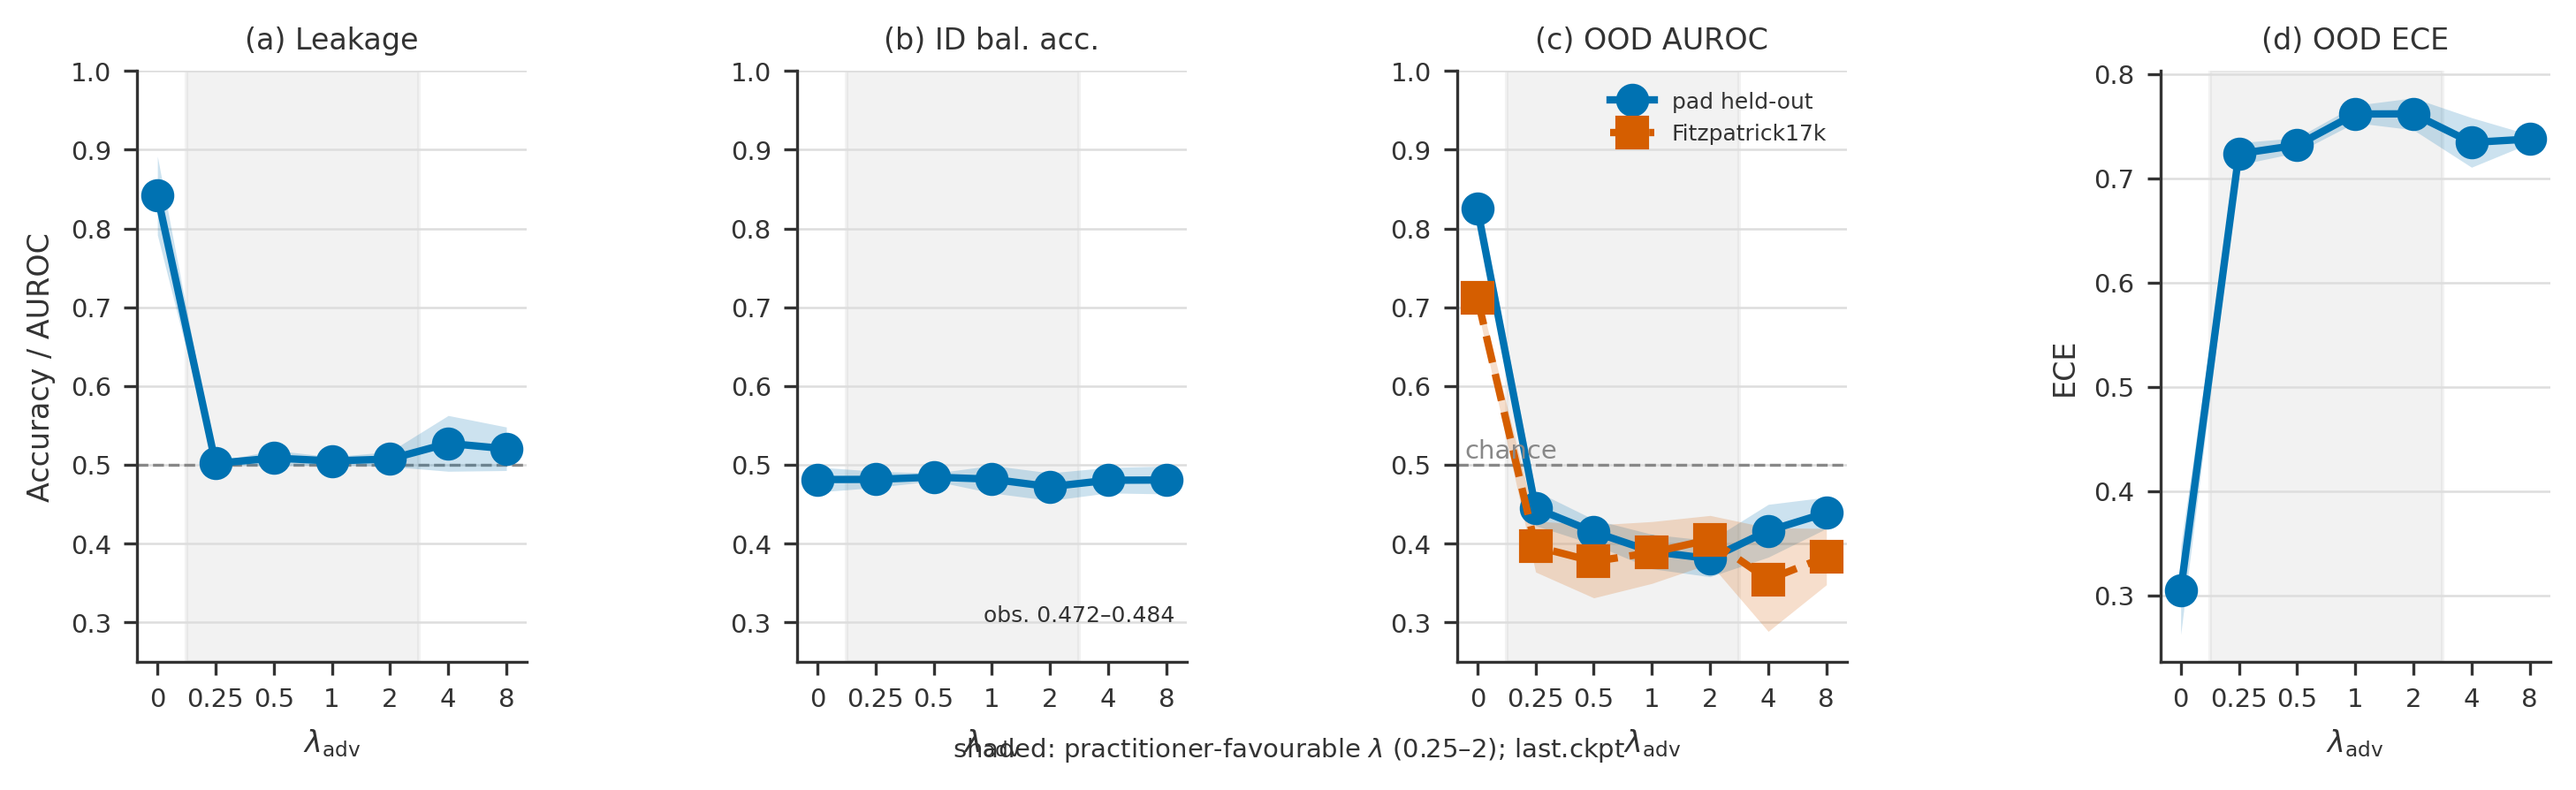
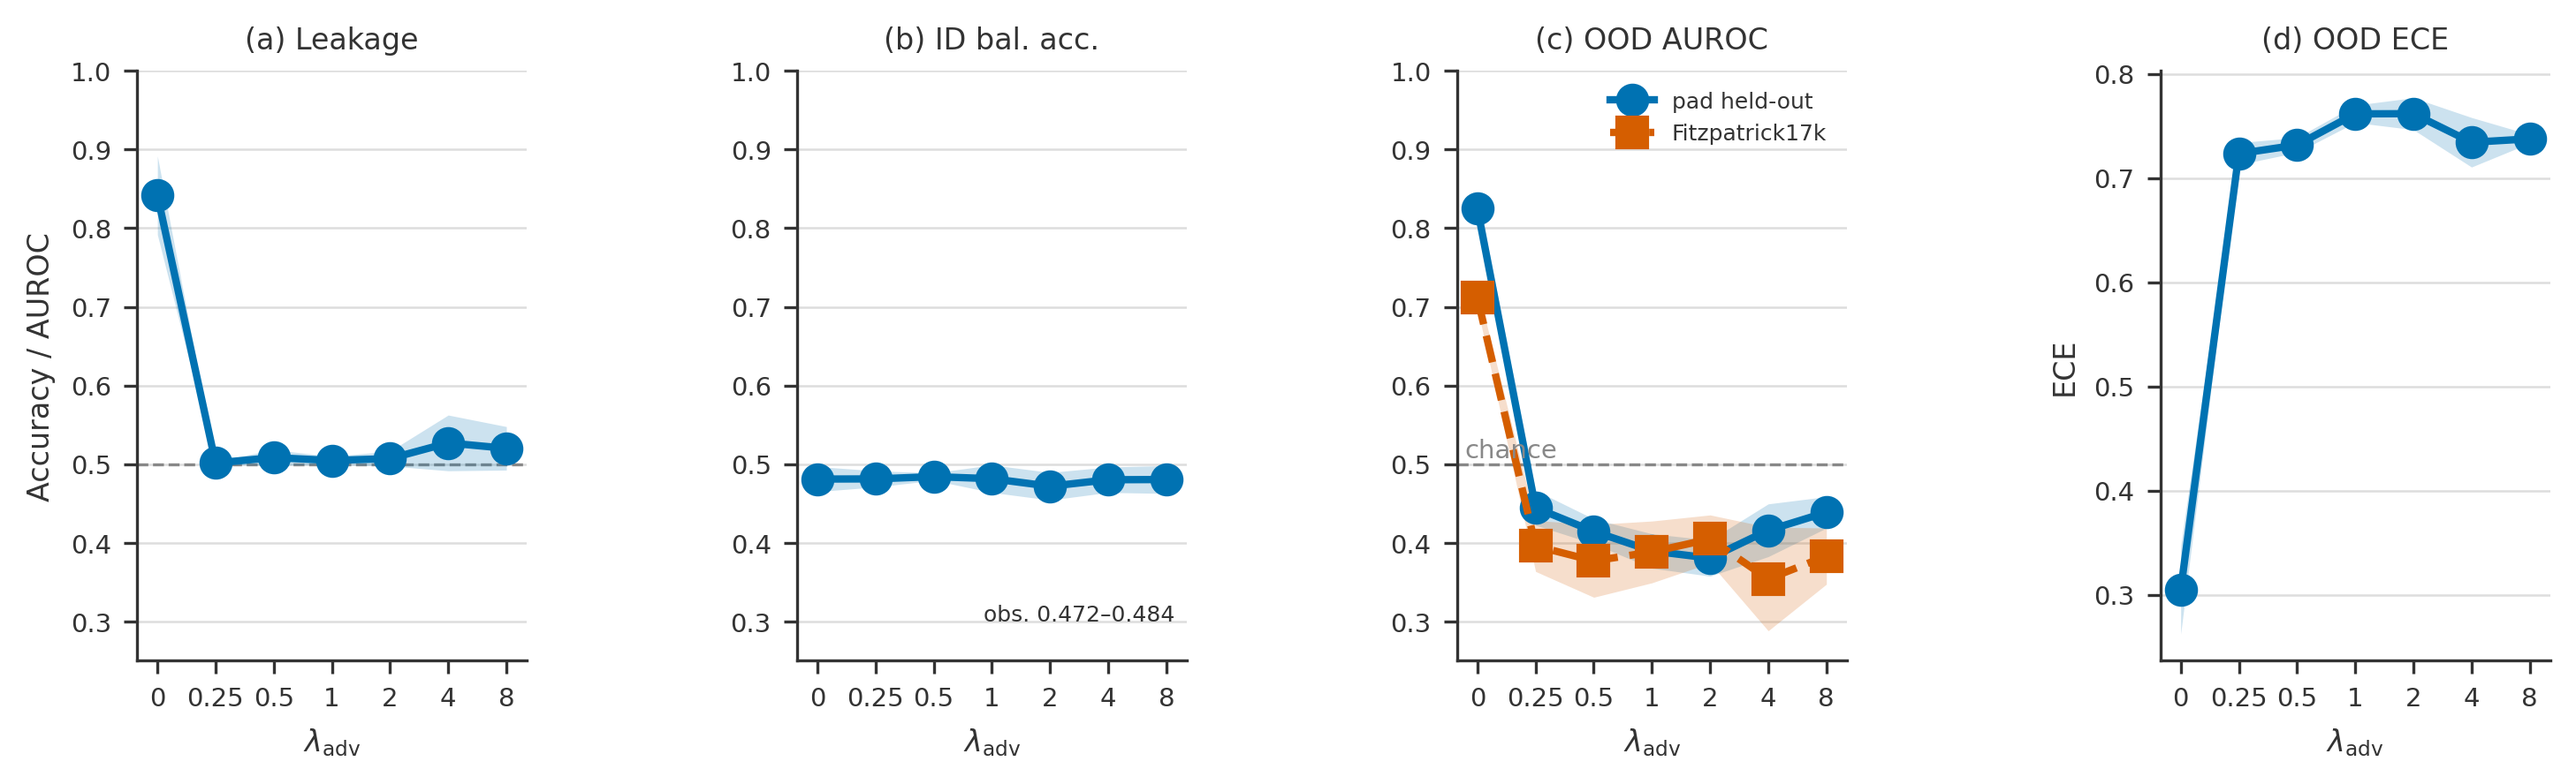
Paper B: Fig 1 layout — drop grey λ band and bottom note.
Keep t1last values and obs. 0.472–0.484; shading/note overlapped x-axis labels and are unused by the caption.

diff --git a/scripts/plot_manuscript_figures.py b/scripts/plot_manuscript_figures.py
@@ -66,43 +66,90 @@ def intervention_band_x(lams=pfs.LAMS):
     return i0 - 0.5, i1 + 0.5
 
 
+def load_t1last_by_lambda(checkpoint="last"):
+    """Table 1 dual-encoder runs at last.ckpt (results/paperB/r5/t1last/summary.csv)."""
+    import csv
+
+    by = defaultdict(list)
+    with open(PAPERB / "r5" / "t1last" / "summary.csv", newline="") as f:
+        for r in csv.DictReader(f):
+            if r["checkpoint"] != checkpoint:
+                continue
+            by[float(r["lambda"])].append(r)
+    return by
+
+
+def load_t1last_ood_ece_by_lambda():
+    """OOD ECE (pad_heldout) from t1last UNSEEN_ECE.json, keyed by λ."""
+    rows = json.loads((PAPERB / "r5" / "t1last" / "UNSEEN_ECE.json").read_text())["ece_by_lambda"]
+    return {float(r["lambda"]): r for r in rows}
+
+
 def fig1_intervention(shared_ylim=(0.4, 1.0)):
-    rows = load_phase3_summaries()
-    by = by_lambda_summaries(rows)
-    dual = json.loads((PAPERB / "phase16" / "table1_ood_pad_dual_column.json").read_text())["by_lambda"]
+    """Fig 1 from t1last last.ckpt (held-out leakage, ID bal, Maha pad+Fitz, OOD ECE)."""
+    by = load_t1last_by_lambda("last")
+    ece_by = load_t1last_ood_ece_by_lambda()
     lams = pfs.LAMS
     x = pfs.lam_xpos(lams)
 
+    def col_mean_std(lam, key):
+        rs = by.get(float(lam), [])
+        return mean_std([float(r[key]) for r in rs])
+
+    # Panel c Fitzpatrick means dip to ~0.354; widen shared floor so nothing clips.
+    y_lo, y_hi = shared_ylim
+    for lam in lams:
+        for key in ("heldout_leakage_V1", "id_bal_acc", "maha_pad_heldout", "maha_fitz"):
+            m, s = col_mean_std(lam, key)
+            if np.isfinite(m):
+                y_lo = min(y_lo, m - (s if np.isfinite(s) else 0.0))
+                y_hi = max(y_hi, m + (s if np.isfinite(s) else 0.0))
+    if y_lo < shared_ylim[0] - 1e-9:
+        shared_ylim = (float(np.floor(y_lo * 20) / 20), shared_ylim[1])  # step 0.05
+        print("fig1: widened shared_ylim lower to {} (t1last Fitz/pad band)".format(shared_ylim[0]))
+
+    fig = plt.figure(figsize=(9.6, 2.85), constrained_layout=True)
+    gs = GridSpec(1, 4, figure=fig, wspace=0.32)
+
+    # (a) leakage  (b) ID bal  (c) Maha pad + Fitz  (d) OOD ECE
     panels = [
-        ("a", "Leakage", lambda r: r["leakage"]["z_lesion"]["bal_acc_mean"], True, False, True),
-        ("b", "ID bal. acc.", lambda r: r["id_balanced_acc"], False, False, True),
+        ("a", "Leakage", "heldout_leakage_V1", True, False, True),
+        ("b", "ID bal. acc.", "id_bal_acc", False, False, True),
         ("c", "OOD AUROC", None, False, True, True),
         ("d", "OOD ECE", None, False, False, False),
     ]
 
-    by13 = by_lambda_runs(load_phase13_runs())
-
-    fig = plt.figure(figsize=(9.6, 2.85), constrained_layout=True)
-    gs = GridSpec(1, 4, figure=fig, wspace=0.32)
-    x0, x1 = intervention_band_x(lams)
-
-    for i, (tag, title, fn, show_floor, show_chance, shared_scale) in enumerate(panels):
+    id_means = []
+    for i, (tag, title, key, show_floor, show_chance, shared_scale) in enumerate(panels):
         ax = fig.add_subplot(gs[0, i])
         pfs.style_axis(ax)
         pfs.set_lambda_axis(ax, lams)
-        ax.axvspan(x0, x1, color="#CCCCCC", alpha=0.25, zorder=0)
-        means, stds = [], []
-        for lam in lams:
-            if tag == "d":
-                m, s = agg_lam(by13, lam, lambda r: r["confidence"]["pad_heldout"]["ece"])
-            elif tag == "c":
-                block = dual[_dual_pad_key(lam)]
-                m, s = block["pad_heldout"]["mean"], block["pad_heldout"]["std"]
-            else:
-                m, s = agg_lam(by, lam, fn)
-            means.append(m)
-            stds.append(s)
-        pfs.plot_series(ax, x, means, stds, 0, "runB orth=1")
+        if tag == "c":
+            for slot, (ckey, lab) in enumerate(
+                    (("maha_pad_heldout", "pad held-out"), ("maha_fitz", "Fitzpatrick17k"))):
+                means, stds = [], []
+                for lam in lams:
+                    m, s = col_mean_std(lam, ckey)
+                    means.append(m)
+                    stds.append(s)
+                pfs.plot_series(ax, x, means, stds, slot, lab)
+            ax.legend(frameon=False, fontsize=6, loc="upper right")
+        elif tag == "d":
+            means, stds = [], []
+            for lam in lams:
+                blk = ece_by[float(lam)]
+                means.append(float(blk["ood_ece_mean"]))
+                stds.append(float(blk["ood_ece_sd"]))
+            pfs.plot_series(ax, x, means, stds, 0, "pad held-out")
+        else:
+            means, stds = [], []
+            for lam in lams:
+                m, s = col_mean_std(lam, key)
+                means.append(m)
+                stds.append(s)
+            pfs.plot_series(ax, x, means, stds, 0, "Table 1 last.ckpt")
+            if tag == "b":
+                id_means = means
         if show_floor:
             pfs.floor_line(ax, 0.5)
         if show_chance:
@@ -114,8 +161,8 @@ def fig1_intervention(shared_ylim=(0.4, 1.0)):
             ax.set_ylabel("Accuracy / AUROC")
         elif tag == "d":
             ax.set_ylabel("ECE")
-        if tag == "b":
-            lo, hi = float(np.nanmin(means)), float(np.nanmax(means))
+        if tag == "b" and id_means:
+            lo, hi = float(np.nanmin(id_means)), float(np.nanmax(id_means))
             ax.text(
                 0.97,
                 0.06,
@@ -127,15 +174,6 @@ def fig1_intervention(shared_ylim=(0.4, 1.0)):
                 color=pfs.INK,
             )
 
-    fig.text(
-        0.5,
-        0.01,
-        r"shaded: practitioner-favourable $\lambda$ (0.25–2)",
-        ha="center",
-        va="bottom",
-        fontsize=7,
-        color=pfs.INK,
-    )
     pfs.save_figure(fig, "fig1_intervention")
 
 
